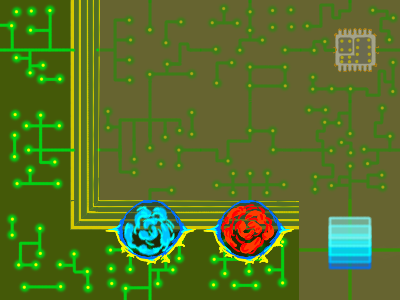
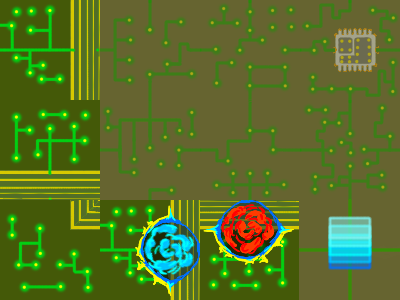
Finished renderer
Renderer should be done for this sprint! We now draw rooms with doors properly.

Changed region(s): [[0.0, 0.33, 0.51, 1.0]]

diff --git a/src/world/world.js b/src/world/world.js
@@ -2,7 +2,7 @@
   The world class is used to interact with the data structure representation of the game.
 */
 class World {
-
+  
   constructor() {
     this.envGraph = null;
     this.nodes = {};
@@ -91,7 +91,8 @@ class World {
       this.nodes[commit].generateNode(parsedMeta.commits[commit]);
     }
 
-    this.currentNode = init;
+    this.currentNode = this.nodes["644a40687d8741014277ce021cfd415a0ee0f681"]; //Here we is!
+//    this.currentNode = init;
   }
 
   update(inputBundle) {
@@ -228,15 +229,75 @@ class EnvNode {
       this.tileSet[i] = new Array(this.height);
     }
 
+
+	//The four corners are produced:
     this.tileSet[0][0] = new Wall(0, 0, 1, -1, 100, 100, tileFrames.corner);
     this.tileSet[0][this.height - 1] = new Wall(0, 100*(this.height - 3), 1, 1, 100, 100, tileFrames.corner);
     this.tileSet[this.width - 1][0] = new Wall(100*(this.width - 3), 0, -1, -1, 100, 100, tileFrames.corner);
     this.tileSet[this.width - 1][this.height - 1] = new Wall(100*(this.width - 3), 100*(this.height - 3), -1, 1, 100, 100, tileFrames.corner);
+
+		//The floor is produced
     for (var i = 1; i < this.width - 3; i++) {
       for (var j = 1; j < this.height - 3; j++) {
         this.tileSet[i][j] = new Floor(100*i, 100*j, 1, 1, 100, 100, tileFrames['floor' + (Math.floor(Math.random()*6) + 1)]);
       }
     }
+
+	//The Left Handed (Parent) doors are produced
+	var Pindex = Math.round((this.height-2)/2); //A cute little indexing variable <3
+	var direction = true; //True = up, false = down
+	var jump = 1;
+	
+	for(var parent of this.parents){
+		this.tileSet[0][Pindex] = new Door(0, 100*Pindex, 1, 1, 100, 100, tileFrames.door1, parent);
+		if(direction){
+			Pindex = Pindex + jump;
+			direction = false;
+			jump++;
+		}else{
+			Pindex = Pindex - jump;
+			direction = true;
+			jump++;
+		}
+	}
+
+	//And the remaining doors, the children, are produced.
+	Pindex = Math.round((this.height-2)/2);
+	direction = true;
+	jump = 1;
+	 
+        for(var neighbor of this.neighbors){
+	   if(this.parents.includes(neighbor) == false){ //Only do them doors that are not part of parents already :)))))
+                this.tileSet[this.width-1][Pindex] = new Door(100*(this.width-3), 100*Pindex, -1, 1, 100, 100, tileFrames.door1, neighbor);
+                if(direction){
+                        Pindex = Pindex + jump;
+                        direction = false;
+                        jump++;
+                }else{
+                        Pindex = Pindex - jump;
+                        direction = true;
+                        jump++;
+                }
+	    }
+        }
+
+	
+	
+	//The remaining walls are produced
+	for(var i = 1; i<this.height - 3; i++){
+	
+		if(this.tileSet[0][i] == null){
+			this.tileSet[0][i] = new Wall(0, (100*i), 1, 1, 100, 100, tileFrames.wall1); //Left Walls
+		}
+		if(this.tileSet[this.width-1][i] == null){
+			this.tileSet[this.width - 1][i] = new Wall(100*(this.width-3), (100*i), -1, 1, 100, 100, tileFrames.wall1); //Right walls
+		}
+	}
+	for(var i = 1; i<this.width - 3; i++){
+			this.tileSet[i][0] = new Wall( (100*i), 0, 1, 1, 100, 100, tileFrames.wall2); //Top Walls
+			this.tileSet[i][this.height-1] = new Wall((100*i), 100*(this.height-3), 1, -1, 100, 100, tileFrames.wall2); //Bottom Walls
+	}
+
   }
 
   /*
@@ -326,7 +387,7 @@ class Tile {
 
 class Door extends Tile {
   constructor(x, y, xScale, yScale, width, height, frames, nodeHash) {
-    super(x, y, xScale, yScale, width, height, frames, tile);
+    super(x, y, xScale, yScale, width, height, frames);
     this.nodeHash = nodeHash;
   }
 }
